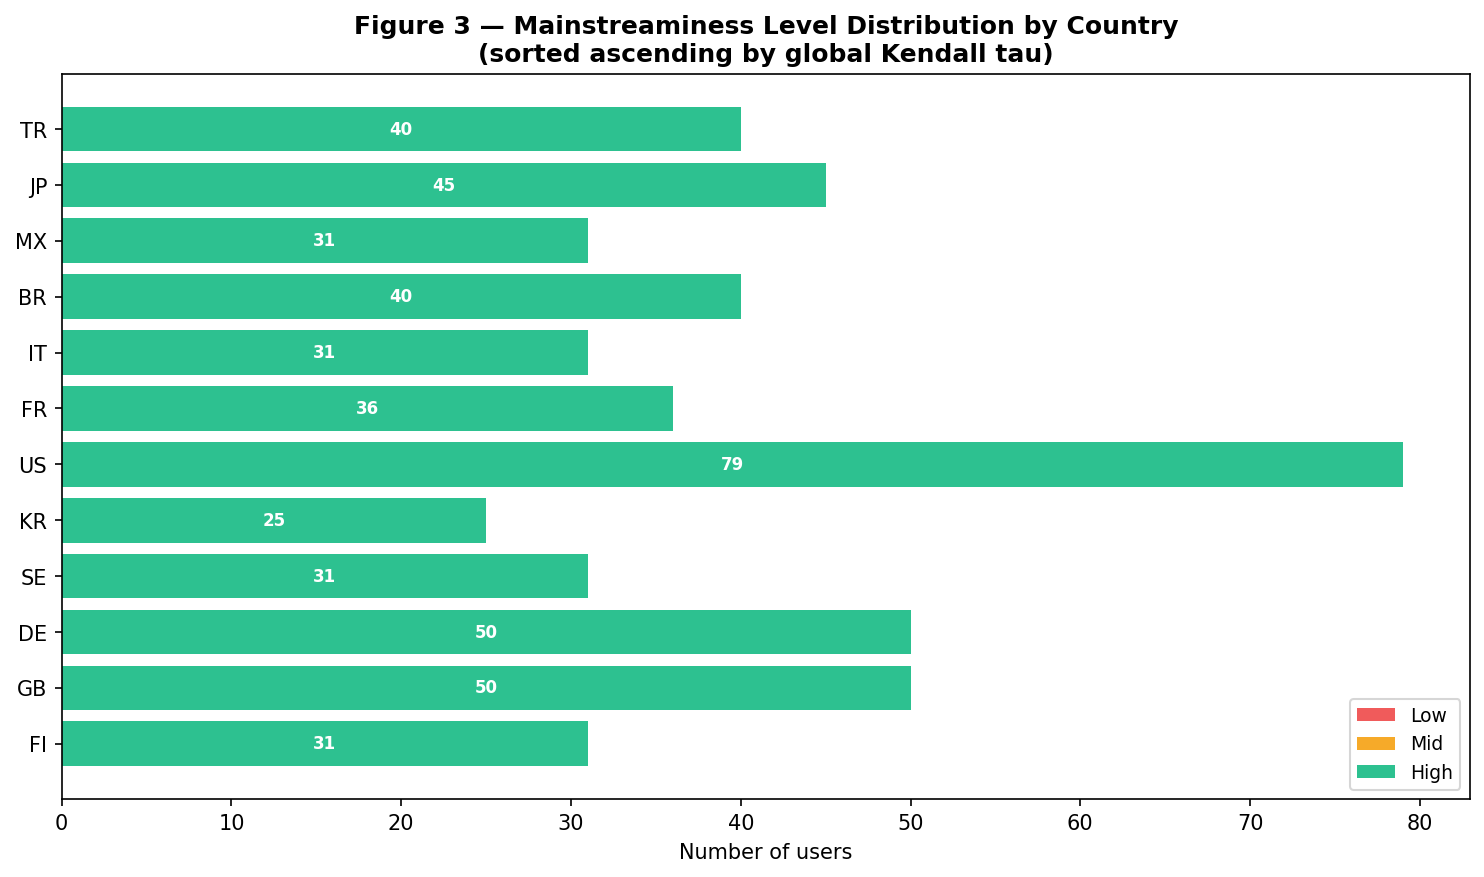
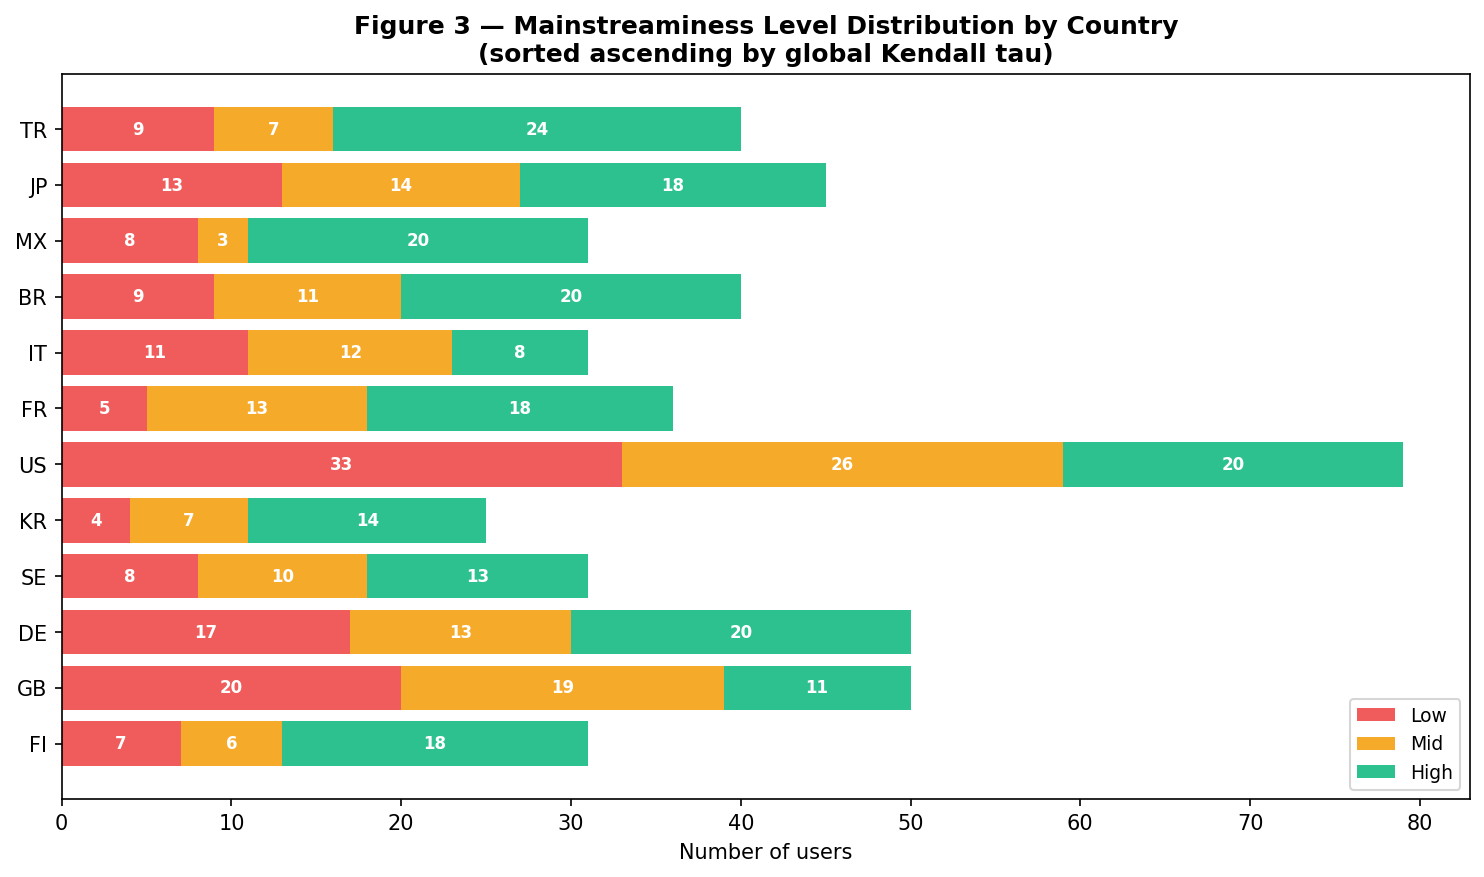
Fix NaN bug in mainstreaminess level classification: np.percentile -> np.nanpercentile

diff --git a/final/Mainstream_final.py b/final/Mainstream_final.py
@@ -193,7 +193,7 @@ print(country_avg[key].sort_values("Cg:AF,u:AF", ascending=False).to_string())
 
 # ── Low / Mid / High classification ──────────────────────────────────────
 scores     = results_df["Cc:AF,u:AF"].values
-thresholds = [np.percentile(scores, 33), np.percentile(scores, 66)]
+thresholds = [np.nanpercentile(scores, 33), np.nanpercentile(scores, 66)]
 
 def classify(v):
     """

diff --git a/fourth progress/Mainstream_final.py b/fourth progress/Mainstream_final.py
@@ -189,7 +189,7 @@ print(country_avg[key].sort_values("Cg:AF,u:AF", ascending=False).to_string())
 
 # ── Low / Mid / High classification ──────────────────────────────────────
 scores     = results_df["Cc:AF,u:AF"].values
-thresholds = [np.percentile(scores, 33), np.percentile(scores, 66)]
+thresholds = [np.nanpercentile(scores, 33), np.nanpercentile(scores, 66)]
 
 def classify(v):
     """
